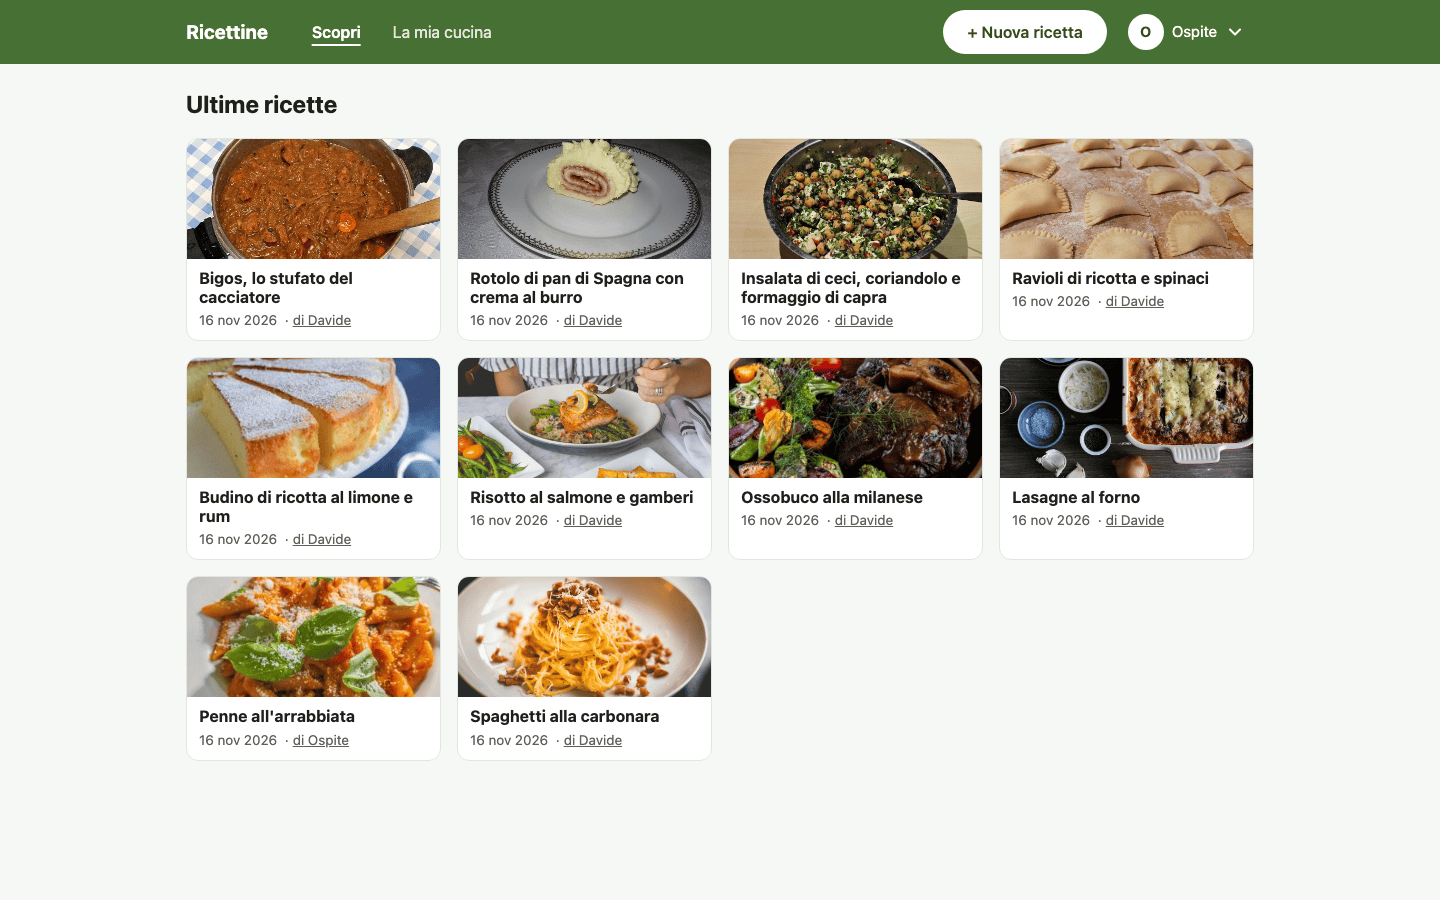
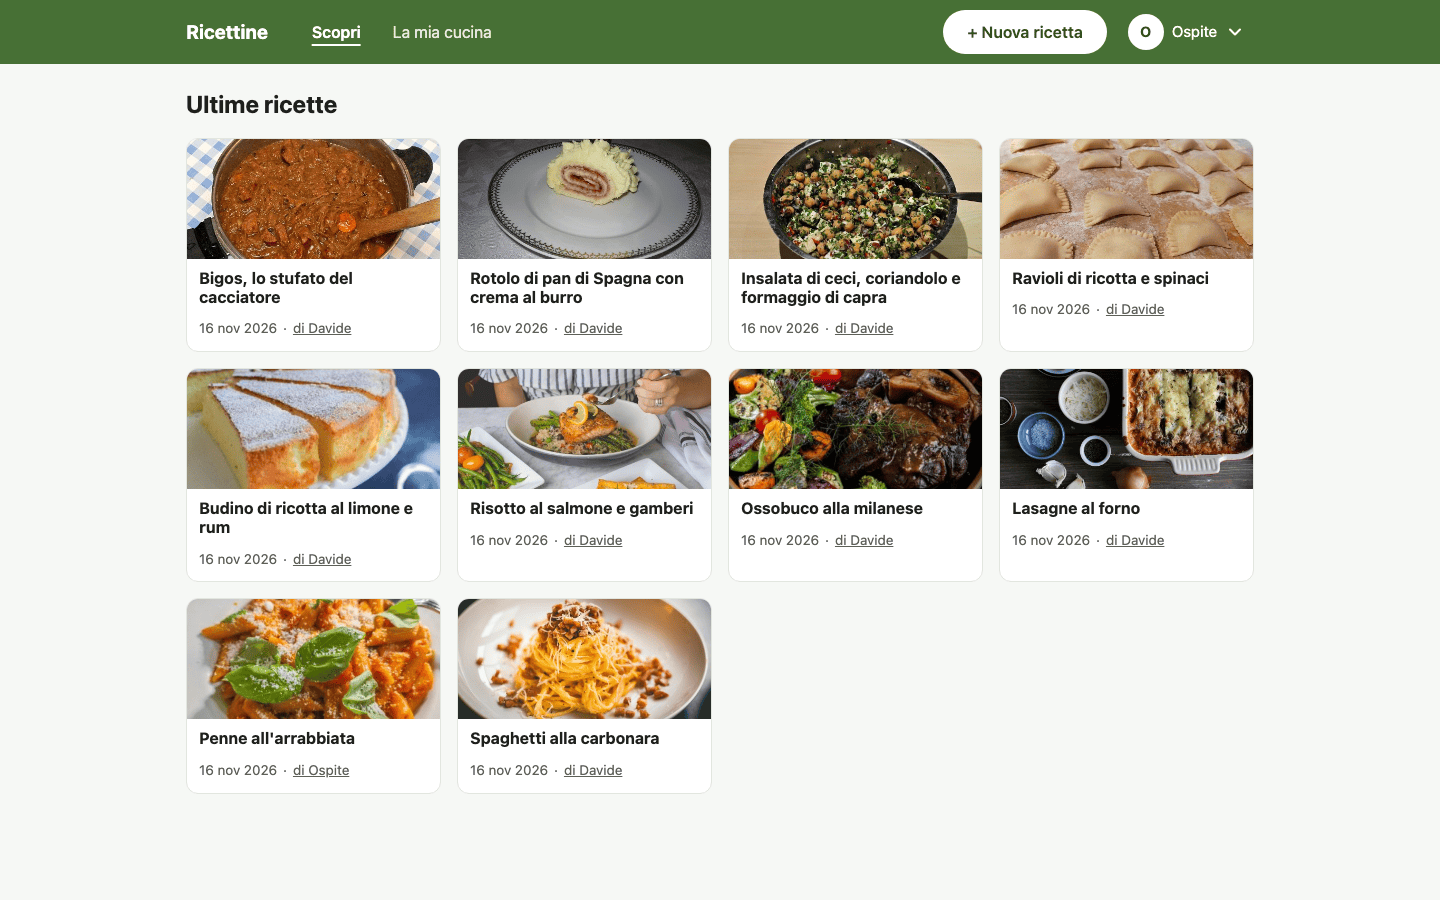
Feed card: author target, focus ring, separator; stricter screenshot checks

Changed region(s): [[0.125, 0.3111, 0.875, 0.8711]]

diff --git a/e2e/screenshots/screenshots.spec.ts b/e2e/screenshots/screenshots.spec.ts
@@ -1,11 +1,20 @@
 import { expect, test, type Locator, type Page } from '@playwright/test';
 import { fileURLToPath } from 'node:url';
+import { readFileSync } from 'node:fs';
 import path from 'node:path';
 
-const writes: string[] = [];
+let writes: string[] = [];
+/** What /api/setup/status really said, and what the page was told instead. */
+let setupStatus: { real?: { demo?: boolean }; patched?: { demo?: boolean; demoUrl?: string | null } } = {};
+
+test.beforeEach(() => {
+  writes = [];
+  setupStatus = {};
+});
 
 // The README/docs images, taken on the demo site (see scripts/screenshots.sh). The language and theme are set the
 // way the app keeps them (localStorage `ricettine.lang` / `ricettine.theme`), so each shot is explicit.
+const REPO = path.resolve(path.dirname(fileURLToPath(import.meta.url)), '../..');
 const OUT = process.env.SCREENSHOT_DIR ?? path.resolve(path.dirname(fileURLToPath(import.meta.url)), '../../docs/images');
 
 
@@ -25,7 +34,8 @@ async function prepare(page: Page, lang: 'it' | 'en', theme: 'light' | 'dark') {
   await page.route('**/api/setup/status', async (route) => {
     const res = await route.fetch();
     const body = await res.json();
-    await route.fulfill({ response: res, json: { ...body, demo: false, demoUrl: null } });
+    setupStatus = { real: body, patched: { ...body, demo: false, demoUrl: null } };
+    await route.fulfill({ response: res, json: setupStatus.patched });
   });
   page.on('request', (req) => {
     if (['POST', 'PUT', 'PATCH', 'DELETE'].includes(req.method())) writes.push(`${req.method()} ${req.url()}`);
@@ -55,6 +65,14 @@ async function settle(page: Page) {
 
 /** Nothing of the demo mode may show: no banner, notice or toast, and no "demo" in the app's own chrome. */
 async function assertMainSiteUi(page: Page) {
+  // positive controls, so the negative checks below cannot go stale: the demo server really says demo (and the page
+  // was told otherwise), and the selectors are the real ones from the app's source
+  expect(setupStatus.real?.demo).toBe(true);
+  expect(setupStatus.patched?.demo).toBe(false);
+  const src = (f: string) => readFileSync(path.resolve(REPO, 'frontend/src/app', f), 'utf8');
+  expect(src('shell/demo-banner.component.ts')).toContain("selector: 'app-demo-banner'");
+  expect(src('recipes/editor/recipe-editor.page.ts')).toContain('demo-notice');
+  expect(src('recipes/editor/recipe-editor.page.ts')).toContain('demo-toast');
   // the banner's host element is always in the shell; it must render nothing
   await expect(page.locator('app-demo-banner')).toHaveText('');
   for (const sel of ['.demo-notice', '.demo-toast']) await expect(page.locator(sel)).toHaveCount(0);
@@ -75,6 +93,31 @@ async function shoot(page: Page, name: string, endAfter?: Locator) {
     clip = { x: 0, y: 0, width: vp.width, height: Math.min(vp.height, Math.ceil(box.y + box.height + 6)) };
   }
   await page.screenshot({ path: path.join(OUT, name), clip });
+}
+
+/** The feed's author link is a real 44 px target, never clipped by its card; on the phone a card is as tall as its image. */
+async function assertFeedCards(page: Page, mobile: boolean) {
+  const sizes = await page.evaluate(() =>
+    Array.from(document.querySelectorAll('li.card')).map((card) => {
+      const r = card.getBoundingClientRect();
+      const a = card.querySelector('a.author')!.getBoundingClientRect();
+      const t = card.querySelector('a.recipe')!.getBoundingClientRect();
+      const img = card.querySelector('img.thumb')?.getBoundingClientRect() ?? card.querySelector('.thumb')!.getBoundingClientRect();
+      return {
+        card: [r.top, r.bottom], author: [a.width, a.height, a.top, a.bottom], title: [t.top, t.bottom], imgH: img.height, cardH: r.height,
+      };
+    }),
+  );
+  expect(sizes.length).toBeGreaterThan(0);
+  for (const s of sizes) {
+    expect(s.author[0]).toBeGreaterThanOrEqual(44);
+    expect(s.author[1]).toBeGreaterThanOrEqual(44);
+    expect(s.author[2]).toBeGreaterThanOrEqual(s.card[0]); // not clipped by the card
+    expect(s.author[3]).toBeLessThanOrEqual(s.card[1] + 0.5);
+    expect(s.author[2]).toBeGreaterThanOrEqual(s.title[1] - 0.5); // no overlap with the title link
+    if (mobile) expect(s.cardH).toBeLessThanOrEqual(s.imgH + 2.5); // image plus the 1 px borders
+  }
+  console.log(`feed cards (${mobile ? 'mobile' : 'desktop'}): author ${sizes[0].author[0].toFixed(0)}x${sizes[0].author[1].toFixed(0)}, card ${sizes[0].cardH.toFixed(0)} / image ${sizes[0].imgH.toFixed(0)}`);
 }
 
 async function openRecipe(page: Page, title: string) {
@@ -100,6 +143,7 @@ test.describe('desktop', { tag: '@desktop' }, () => {
     await prepare(page, 'it', 'light');
     await page.goto('/');
     await expect(page.getByText('Spaghetti alla carbonara').first()).toBeVisible();
+    await assertFeedCards(page, false);
     await shoot(page, 'feed-desktop.png');
   });
 
@@ -142,6 +186,7 @@ test.describe('mobile', { tag: '@mobile' }, () => {
     await prepare(page, 'it', 'light');
     await page.goto('/');
     await expect(page.getByText('Spaghetti alla carbonara').first()).toBeVisible();
+    await assertFeedCards(page, true);
     await shoot(page, 'feed-mobile.png');
   });
 

diff --git a/frontend/src/app/feed/feed.page.scss b/frontend/src/app/feed/feed.page.scss
@@ -24,10 +24,12 @@ button.more:disabled {
 
 // The whole card opens the recipe through the title link (its ::after covers the card); the author link sits
 // above that cover, on the date line. A link and its card are siblings, never nested anchors.
+// On the phone the card is exactly as tall as its image: the thumbnail is tall enough for a two-line title above
+// a 44 px meta row, so the author link has a real, unclipped 44 px target that never overlaps the title.
 li.card {
   position: relative;
   display: grid;
-  grid-template-columns: 72px 1fr;
+  grid-template-columns: 88px 1fr;
   grid-template-areas:
     'thumb name'
     'thumb meta';
@@ -41,6 +43,8 @@ li.card {
 }
 li.card .thumb {
   grid-area: thumb;
+  width: 88px;
+  height: 88px;
 }
 li.card a.recipe {
   grid-area: name;
@@ -57,7 +61,7 @@ li.card a.recipe {
   border-radius: 0;
   background: none;
   line-height: 1.2;
-  padding: t.$space-1 t.$space-3 0 0;
+  padding: 0 t.$space-3 0 0;
 }
 li.card a.recipe::after {
   content: '';
@@ -75,23 +79,31 @@ li.card a.recipe:focus-visible::after {
 li.card .meta {
   grid-area: meta;
   align-self: start;
+  display: flex;
+  align-items: center;
+  gap: 6px;
+  min-height: t.$touch-target;
   margin: 0;
-  padding: 0 t.$space-3 t.$space-1 0;
-  line-height: 1.4;
+  padding: 0 t.$space-3 0 0;
 }
-// The 44 px touch target is padding around the line (mostly below it, so the title above stays tappable at its
-// centre), so the line and the card stay compact. The card edge clips what would reach past it.
-li.card .meta span[aria-hidden='true'] {
-  margin: 0 t.$space-1;
-}
+// the link's padding makes the target at least 44 px wide; the negative margin keeps the text where the gap says
 a.author {
   position: relative;
   z-index: 1;
-  display: inline-block;
-  padding: 5px 0 20px;
-  margin: -5px 0 -20px;
+  display: inline-flex;
+  align-items: center;
+  justify-content: center;
+  min-width: t.$touch-target;
+  min-height: t.$touch-target;
+  padding: 0 8px;
+  margin: 0 -8px;
   color: var(--muted);
   text-decoration: underline;
+  border-radius: 6px;
+}
+a.author:focus-visible {
+  outline: 2px solid var(--link);
+  outline-offset: -2px;
 }
 
 @media (min-width: t.$bp-desktop) {
@@ -105,6 +117,10 @@ a.author {
     align-content: start;
     column-gap: 0;
   }
+  li.card .thumb {
+    width: 100%;
+    height: 120px;
+  }
   li.card a.recipe {
     display: block;
     -webkit-line-clamp: unset;
@@ -112,6 +128,6 @@ a.author {
     padding: 10px 12px 0;
   }
   li.card .meta {
-    padding: t.$space-1 12px 10px;
+    padding: 0 12px;
   }
 }

diff --git a/frontend/src/app/feed/feed.page.ts b/frontend/src/app/feed/feed.page.ts
@@ -27,17 +27,13 @@ import { FeedItem } from './feed.model';
             @for (r of list; track r.id) {
               <li class="card">
                 @if (thumb(r); as src) {
-                  <img
-                    class="thumb"
-                    [src]="src"
-                    [alt]="t('recipes.coverAlt', { title: r.title })"
-                  />
+                  <img class="thumb" [src]="src" alt="" />
                 } @else {
                   <span class="thumb none" aria-hidden="true"></span>
                 }
                 <a class="recipe name" [routerLink]="['/r', r.shareToken]">{{ r.title }}</a>
                 <p class="meta">
-                  {{ r.publishedAt | appDate }}
+                  <span>{{ r.publishedAt | appDate }}</span>
                   <span aria-hidden="true">·</span>
                   <a class="author" [routerLink]="['/u', r.author.username]">{{
                     t('recipes.by', { name: r.author.displayName })

diff --git a/frontend/src/app/feed/feed.page.spec.ts b/frontend/src/app/feed/feed.page.spec.ts
@@ -53,6 +53,8 @@ describe('FeedPage', () => {
     expect(cards[0].querySelector('.meta a.author')).toBe(authors[0]);
     expect(cards[0].querySelector('.meta [aria-hidden="true"]')?.textContent).toBe('·');
     expect(cards[0].querySelector('img.thumb')?.getAttribute('src')).toBe('/media/m/T.jpg?s=tok-a');
+    // decorative: the title link next to it names the card
+    expect(cards[0].querySelector('img.thumb')?.getAttribute('alt')).toBe('');
     expect(cards[1].querySelector('img')).toBeNull();
     expect(more(el)).toBeNull();
   });
